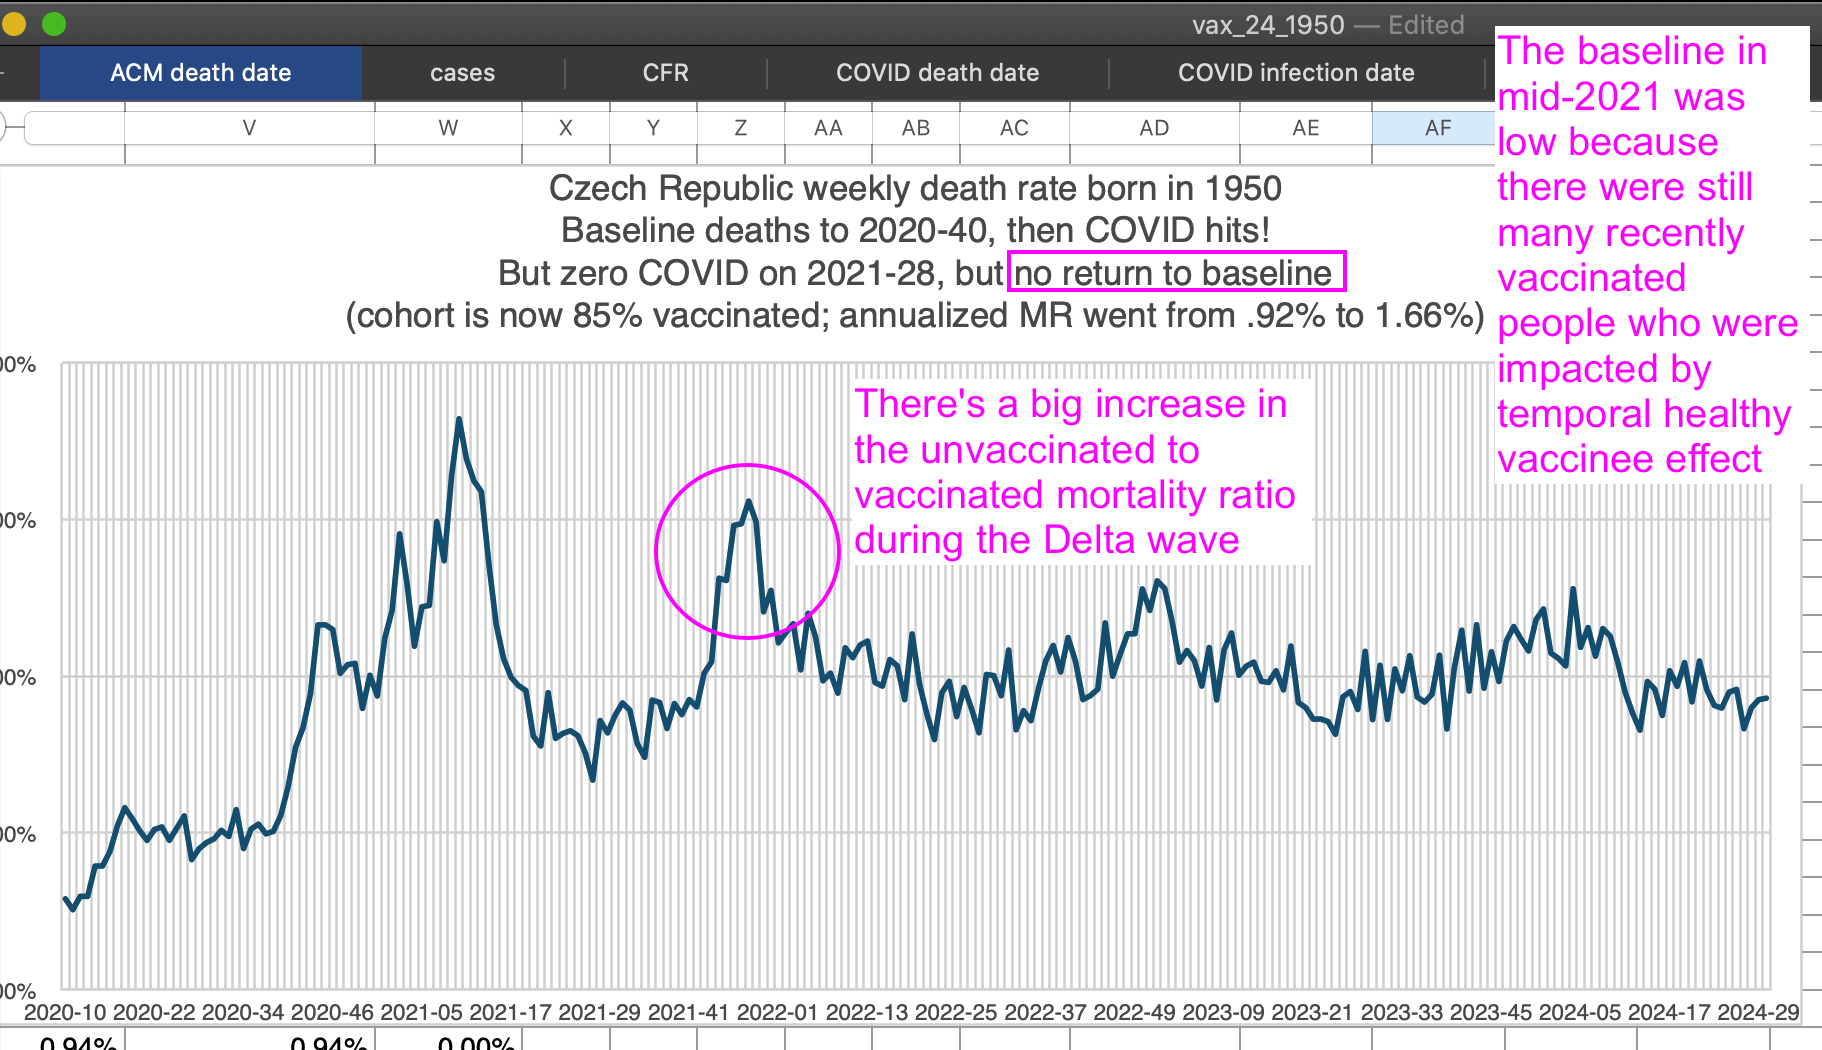
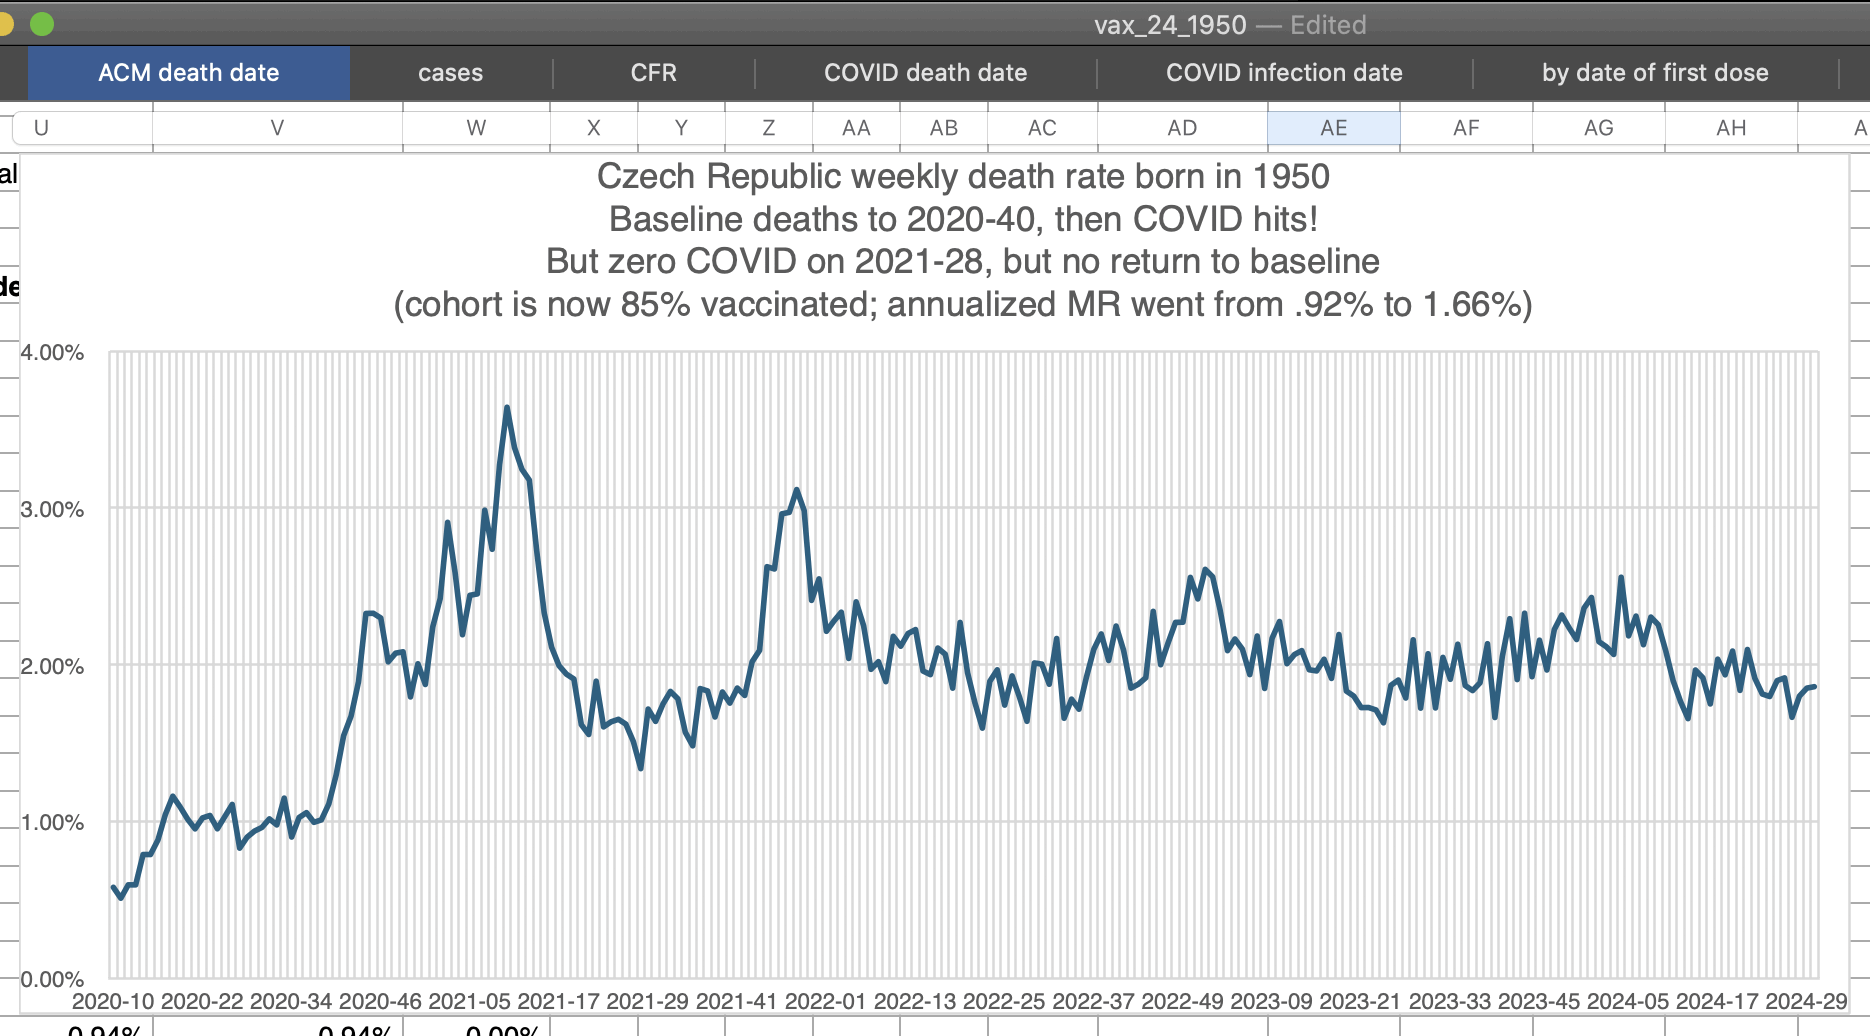
a

diff --git a/rootclaim3.html b/rootclaim3.html
@@ -1399,7 +1399,10 @@ ggsave(&quot;1.png&quot;,width=5.3,height=4.8,dpi=300*4)
 sub=&quot;Source: github.com/PalackyUniversity/uzis-data-analysis. People are counted as vaccinated from the day of the first dose. Partially vaccinated people are not excluded. The age groups used for ASMR were 0-14, single years of age for ages 50-89, and 5-year age groups for other ages. The resident population estimates in the 2021 census were used as the standard population.&quot;
 system(paste0(&quot;mogrify -trim 1.png;magick 1.png \\( -size `identify -format %w 1.png`x -font Arial -interline-spacing -3 -pointsize $[43*4] caption:&#39;&quot;,gsub(&quot;&#39;&quot;,&quot;&#39;\\\\&#39;&quot;,sub),&quot;&#39; -splice x80 \\) -append -resize 25% -bordercolor white -border 24 -colors 256 1.png&quot;))</pre>
 </div>
-<p>Kirsch's Substack post only included at table of the mortality rates during his low-COVID and high-COVID periods, but he should've also posted a time series plot similar to my plot above, so then his readers would've seen that the ratio between unvaccinated and vaccinated mortality rates was in fact elevated during the COVID wave in November to December 2021.</p>
+<p>Kirsch's Substack post only included at table of the mortality rates during his low-COVID and high-COVID periods, but his spreadsheet also included this time series plot which showed that the ratio between unvaccinated and vaccinated deaths was clearly elevated during the Delta wave. He should've also included a similar plot in his Substack post:</p>
+<div class="width8">
+<img src="i/rootclaim-czechrate-3.png">
+</div>
 <p>In the United States the peak in deaths during the Delta wave occurred about three months earlier than in the Czech Republic. But in the United States the increase in deaths during the Delta wave was also much more pronounced in unvaccinated people than vaccinated people:</p>
 <div class="width6">
 <img src="i/rootclaim-medicareraw.png">
